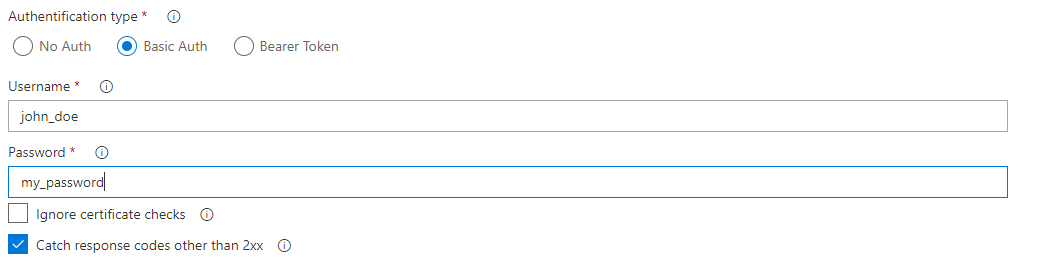
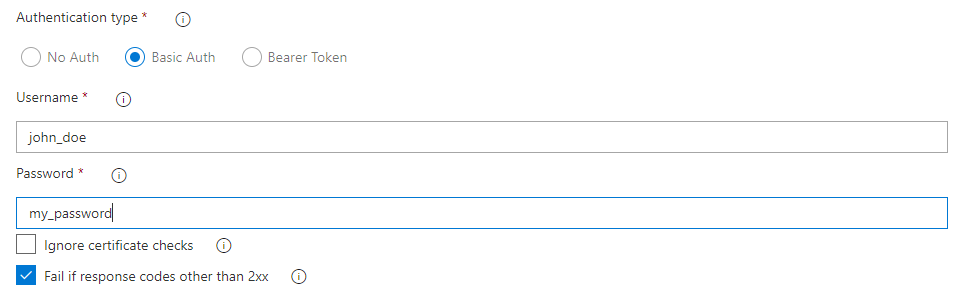
Fix : Set default authentication to 'none' Improve errors management

diff --git a/src/downloadFile.ts b/src/downloadFile.ts
@@ -1,4 +1,4 @@
-import tl = require('vsts-task-lib/task');
+import tl = require('azure-pipelines-task-lib/task');
 const url = require('url');
 const http = require('http');
 const https = require("https");
@@ -17,9 +17,6 @@ async function run() {
 		var strTargetDir = tl.getInput('strTargetDir', true);
 		var strTargetFilename = tl.getInput('strTargetFilename', true);
 		var authType = tl.getInput('authType', true);
-		var basicAuthUsername = tl.getInput('basicAuthUsername', false);
-		var basicAuthPassword = tl.getInput('basicAuthPassword', false);
-		var bearerToken = tl.getInput('bearerToken', false);
 		var ignoreCertificateChecks = tl.getBoolInput('ignoreCertificateChecks', true);
 		var catchResponse = tl.getBoolInput('catchResponse', true);
 
@@ -73,7 +70,9 @@ async function run() {
 		// Set authentification if needed
 		switch(authType){
 			case "basic":
-				console.log("[INFO] Authentification type : 'Basic Auth'");
+				var basicAuthUsername = tl.getInput('basicAuthUsername', true);
+				var basicAuthPassword = tl.getInput('basicAuthPassword', true);
+				console.log("[INFO] Authentication type : 'Basic Auth'");
 				console.log("[INFO] Username : '" + basicAuthUsername + "'");
 				console.log("[INFO] Password : '" + basicAuthPassword + "'");
 				options.headers = {
@@ -81,7 +80,8 @@ async function run() {
 				}
 				break;
 			case "bearer":
-				console.log("[INFO] Authentification type : 'Bearer Token'");
+				var bearerToken = tl.getInput('bearerToken', true);
+				console.log("[INFO] Authentication type : 'Bearer Token'");
 				console.log("[INFO] Token : '" + bearerToken + "'");
 				options.headers = {
 					'Authorization': 'Bearer ' + bearerToken
@@ -89,7 +89,7 @@ async function run() {
 				break;
 			case "noAuth":
 			default:
-				console.log("[INFO] Authentification type : 'No Auth'");
+				console.log("[INFO] Authentication type : 'No Auth'");
 				break;
 		}
 		
@@ -123,11 +123,9 @@ async function run() {
 				console.log("[INFO] File infos : " + output + " (" + displayFileSize(fileSizeInBytes) + ")");
 			});
 			
-			req.on('error', function catchError(error) {
-				throw new Error("Error when download file [" + statusCode + "] : " + error);
-			});
-			
-		});
+		}).on('error', function catchError(error) {
+            throw new Error("Error when download file : " + error);
+        });
 		
 		req.end();
 		

diff --git a/test/downloadFile.js b/test/downloadFile.js
@@ -1,0 +1,33 @@
+const tmrm = require('azure-pipelines-task-lib/mock-run');
+const path = require('path');
+
+var taskPath = path.join(__dirname, '..', 'myscripts/downloadFile.js');
+var conf = require(path.join(__dirname, 'conf.json'));
+
+var tr = new tmrm.TaskMockRunner(taskPath);
+
+tr.setInput("strUrl", conf.download_file.strUrl);
+tr.setInput("strTargetDir", conf.download_file.strTargetDir);
+tr.setInput("strTargetFilename", conf.download_file.strTargetFilename);
+tr.setInput("ignoreCertificateChecks", conf.download_file.ignore_ssl);
+tr.setInput("catchResponse", conf.download_file.catch_response);
+
+var strAuthType = process.env["AUTH"];
+
+switch(strAuthType){			
+    case "basic":
+        tr.setInput("authType", "basic");
+        tr.setInput("basicAuthUsername", conf.auth.basic.basicAuthUsername);
+        tr.setInput("basicAuthPassword", conf.auth.basic.basicAuthPassword);
+        break;
+    case "bearer":
+        tr.setInput("authType", "bearer");
+        tr.setInput("bearerToken", conf.auth.bearer.bearerToken);
+        break;
+    case "noAuth":
+        tr.setInput("authType", "noAuth");
+        break;
+}
+
+tr.registerMock('azure-pipelines-task-lib/toolrunner', require('azure-pipelines-task-lib/mock-toolrunner'));
+tr.run();

diff --git a/test/run_all.js b/test/run_all.js
@@ -1,0 +1,26 @@
+const assert = require('assert');
+const path = require('path');
+const ttm = require('azure-pipelines-task-lib/mock-test');
+
+describe('azure-devops-download-a-file', function () {
+    it("downloadFile", (done) => {
+
+        var tp = path.join(__dirname, "downloadFile.js");
+        var tr = new ttm.MockTestRunner(tp);
+
+        var conf = require(path.join(__dirname, 'conf.json'));
+        process.env["AUTH"] = conf.download_file.auth_type;
+
+        tr.run();
+        
+        try {
+            assert(tr.succeeded, "Should have succeeded");
+            done();
+        }
+        catch (error) {
+            console.log("STDERR", tr.stderr);
+            console.log("STDOUT", tr.stdout);
+            done(error);
+        }
+    }).timeout(90000);
+});

diff --git a/overview.md b/overview.md
@@ -7,11 +7,11 @@ Parameters :
 - **Download URL**: Enter the url of the file to download (http or https protocols are supported).
 - **Target path folder**: Directory to save the file (Will be created if he doesn\'t exist).
 - **Target file name**: Rename target file.
-- **Authentification type**: Define which authentication methods.
+- **Authentication type**: Define which authentication methods.
 - **Ignore certificate checks**: Ignore errors from certificate checks.
 - **Fail if response codes other than 2xx**: Fail task if the HTTP response code is not 2xx.
 
-## Authentification modes
+## Authentication modes
 
 ### No Auth
 
@@ -23,8 +23,8 @@ Parameters :
 ![Basic Auth](screenshots/auth_basic.png)
 
 Parameters :
-- **Username**: Username for the Basic Authentification.
-- **Password**: Password for the Basic Authentification.
+- **Username**: Username for the Basic Authentication.
+- **Password**: Password for the Basic Authentication.
 
 
 ### Bearer Token
@@ -32,4 +32,19 @@ Parameters :
 ![Basic Auth](screenshots/auth_bearer.png)
 
 Parameters :
-- **Token**: Token for the Bearer Token Authentification.
+- **Token**: Token for the Bearer Token Authentication.
+
+
+## Release note
+
+### v1.0.6
+- Improve errors management
+
+### v1.0.5
+- Fix dependency bug introduced in v1.0.3
+
+### v1.0.3
+- Fix : Set default authentication to 'none'
+
+### v1.0.2
+- First release
